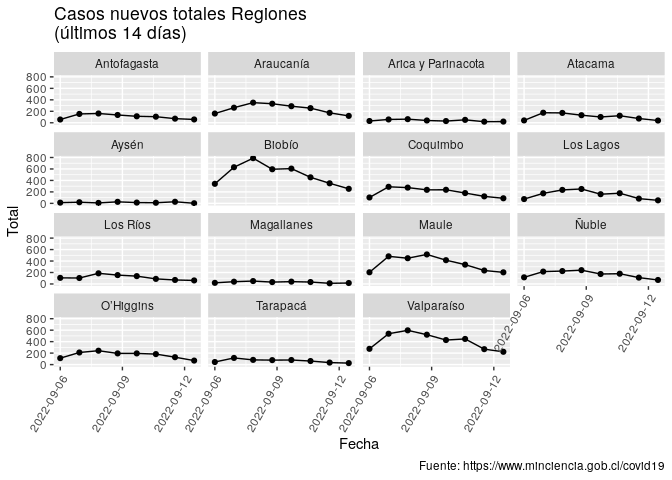
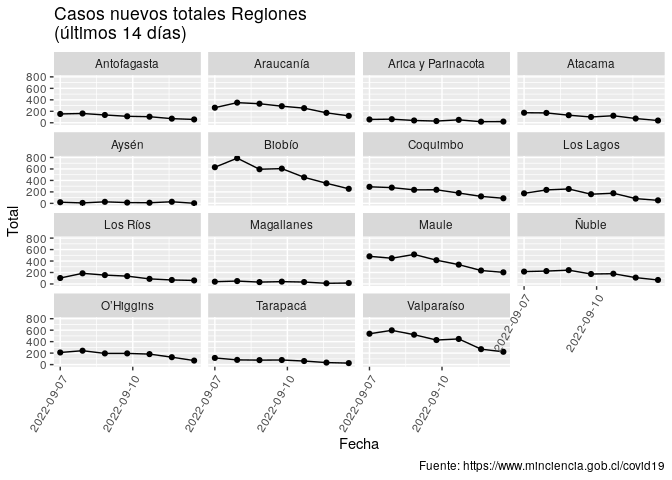
Re-build Rmarkdown files

diff --git a/README.md b/README.md
@@ -3,7 +3,7 @@
 
 Ejemplo de uso de total\_casos de COVID recopilados por el Ministerio de
 Ciencia de Chile <https://www.minciencia.gob.cl/covid19>. Última
-actualización: 2022-09-19
+actualización: 2022-09-20
 
 ## Visualización desde el comienzo de la pandemia
 
